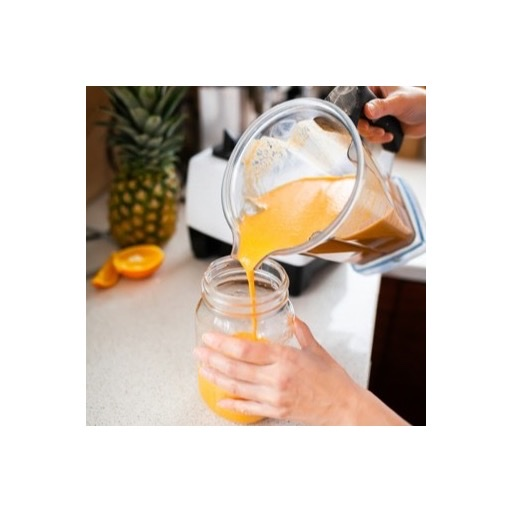
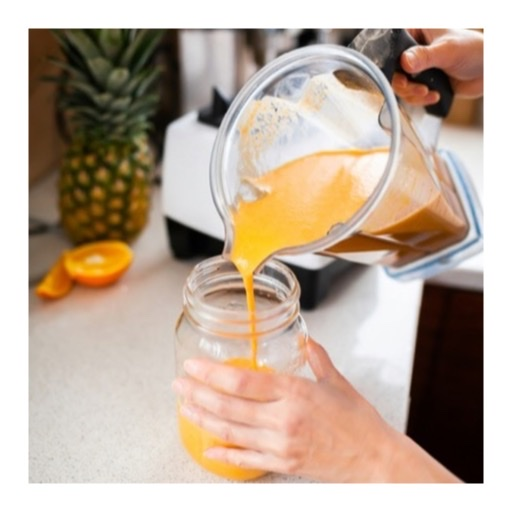
Enlarge drink photo assets

diff --git a/assets-vocabulary.js b/assets-vocabulary.js
@@ -718,62 +718,62 @@ window.assetVocabulary = {
     {
       "word": "Apple Juice",
       "vi": "Apple Juice",
-      "image": "assets/drinks/apple-juice.jpg"
+      "image": "assets/drinks/apple-juice.jpg?v=20260604-drinkphotos2"
     },
     {
       "word": "Bubble Tea",
       "vi": "Bubble Tea",
-      "image": "assets/drinks/bubble-tea.jpg"
+      "image": "assets/drinks/bubble-tea.jpg?v=20260604-drinkphotos2"
     },
     {
       "word": "Coca-Cola",
       "vi": "Coca-Cola",
-      "image": "assets/drinks/coca-cola.jpg"
+      "image": "assets/drinks/coca-cola.jpg?v=20260604-drinkphotos2"
     },
     {
       "word": "Coffee",
       "vi": "Coffee",
-      "image": "assets/drinks/coffee.jpg"
+      "image": "assets/drinks/coffee.jpg?v=20260604-drinkphotos2"
     },
     {
       "word": "Hot Chocolate",
       "vi": "Hot Chocolate",
-      "image": "assets/drinks/hot-chocolate.jpg"
+      "image": "assets/drinks/hot-chocolate.jpg?v=20260604-drinkphotos2"
     },
     {
       "word": "Lemonade",
       "vi": "Lemonade",
-      "image": "assets/drinks/lemonade.jpg"
+      "image": "assets/drinks/lemonade.jpg?v=20260604-drinkphotos2"
     },
     {
       "word": "Milk",
       "vi": "Milk",
-      "image": "assets/drinks/milk.jpg"
+      "image": "assets/drinks/milk.jpg?v=20260604-drinkphotos2"
     },
     {
       "word": "Orange Juice",
       "vi": "Orange Juice",
-      "image": "assets/drinks/orange-juice.jpg"
+      "image": "assets/drinks/orange-juice.jpg?v=20260604-drinkphotos2"
     },
     {
       "word": "Smoothie",
       "vi": "Smoothie",
-      "image": "assets/drinks/smoothie.jpg"
+      "image": "assets/drinks/smoothie.jpg?v=20260604-drinkphotos2"
     },
     {
       "word": "Soda",
       "vi": "Soda",
-      "image": "assets/drinks/soda.jpg"
+      "image": "assets/drinks/soda.jpg?v=20260604-drinkphotos2"
     },
     {
       "word": "Tea",
       "vi": "Tea",
-      "image": "assets/drinks/tea.jpg"
+      "image": "assets/drinks/tea.jpg?v=20260604-drinkphotos2"
     },
     {
       "word": "Water",
       "vi": "Water",
-      "image": "assets/drinks/water.jpg"
+      "image": "assets/drinks/water.jpg?v=20260604-drinkphotos2"
     }
   ]
 };

diff --git a/index.html b/index.html
@@ -79,7 +79,7 @@
       </div>
     </div>
 
-    <script src="assets-vocabulary.js?v=20260604-drinkphotos1"></script>
-    <script src="app.js?v=20260604-drinkphotos1"></script>
+    <script src="assets-vocabulary.js?v=20260604-drinkphotos2"></script>
+    <script src="app.js?v=20260604-drinkphotos2"></script>
   </body>
 </html>
